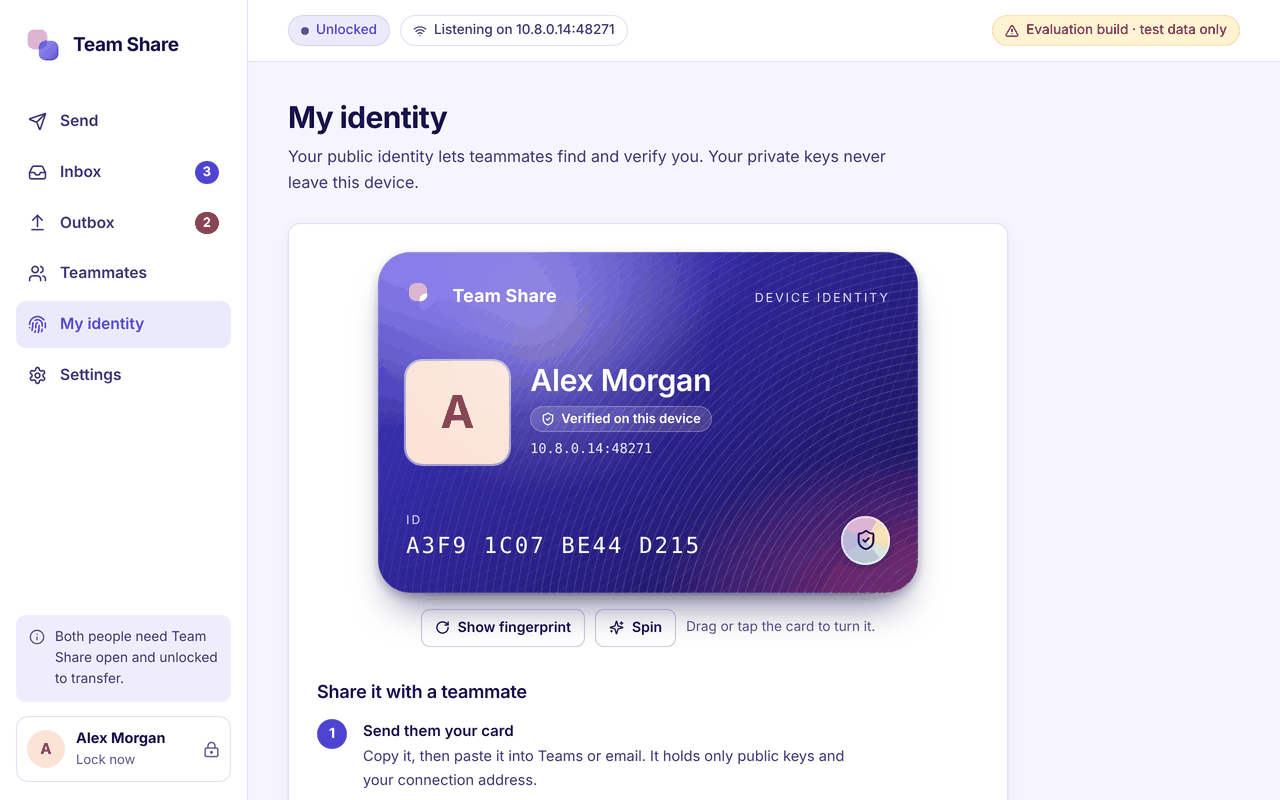
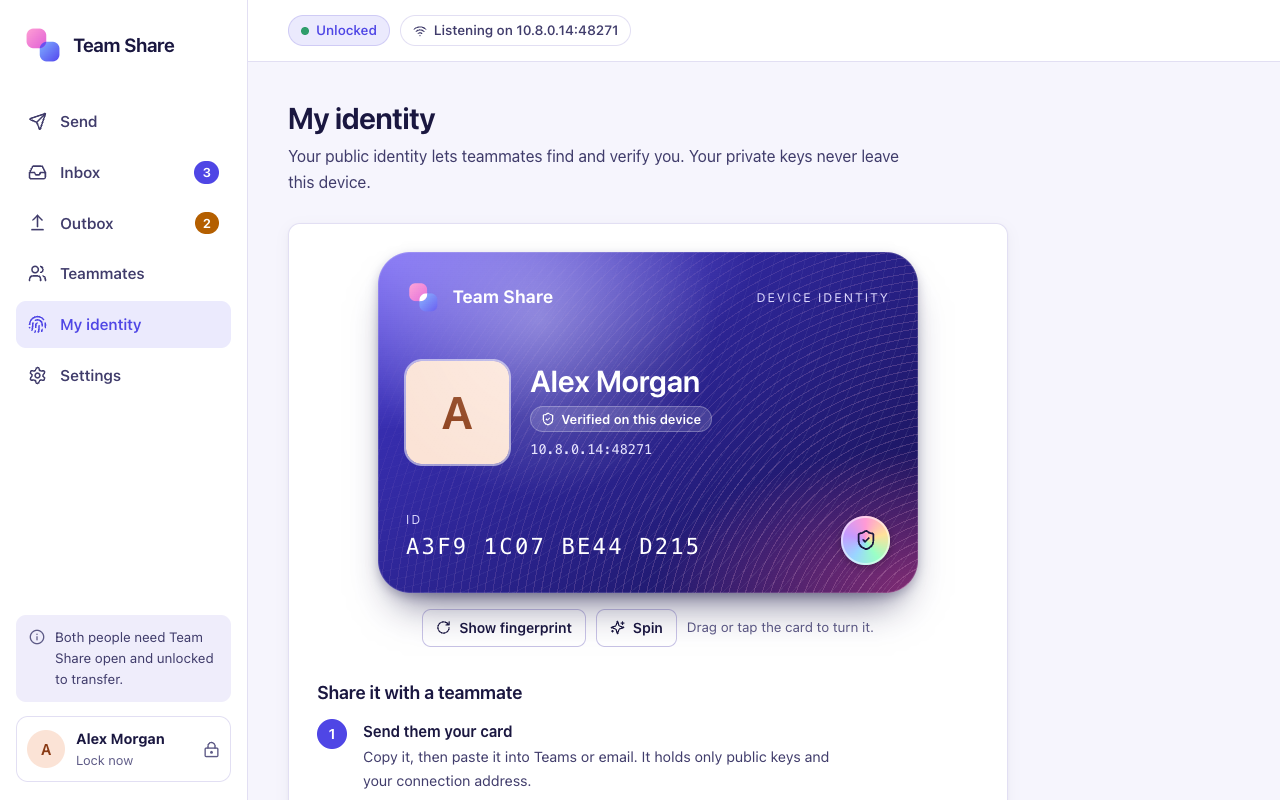
Remove evaluation notices

diff --git a/README.md b/README.md
@@ -14,9 +14,6 @@
 
 </div>
 
-> [!WARNING]
-> **Evaluation build. Use test data only.** Team Share is still being security-reviewed and is not approved for real production secrets yet. Try it with fake keys and sample files.
-
 <br>
 
 ## See it in 20 seconds
@@ -154,15 +151,6 @@ Expired content cannot be opened. The receiving app removes its local copy while
 </details>
 
 <details>
-<summary><b>Can I use it for real secrets?</b></summary>
-
-<br>
-
-Not yet. This is an evaluation build that is still being reviewed. Use made-up keys and sample files until it is approved.
-
-</details>
-
-<details>
 <summary><b>I forgot my passphrase.</b></summary>
 
 <br>
@@ -186,5 +174,5 @@ There is no reset by design, because nobody else, including us, can unlock your 
 <br>
 
 <div align="center">
-<sub>Team Share is built for internal evaluation. Release notes live on the <a href="https://github.com/AndrewR3K/team-share-releases/releases">releases page</a>.</sub>
+<sub>Release notes live on the <a href="https://github.com/AndrewR3K/team-share-releases/releases">releases page</a>.</sub>
 </div>
